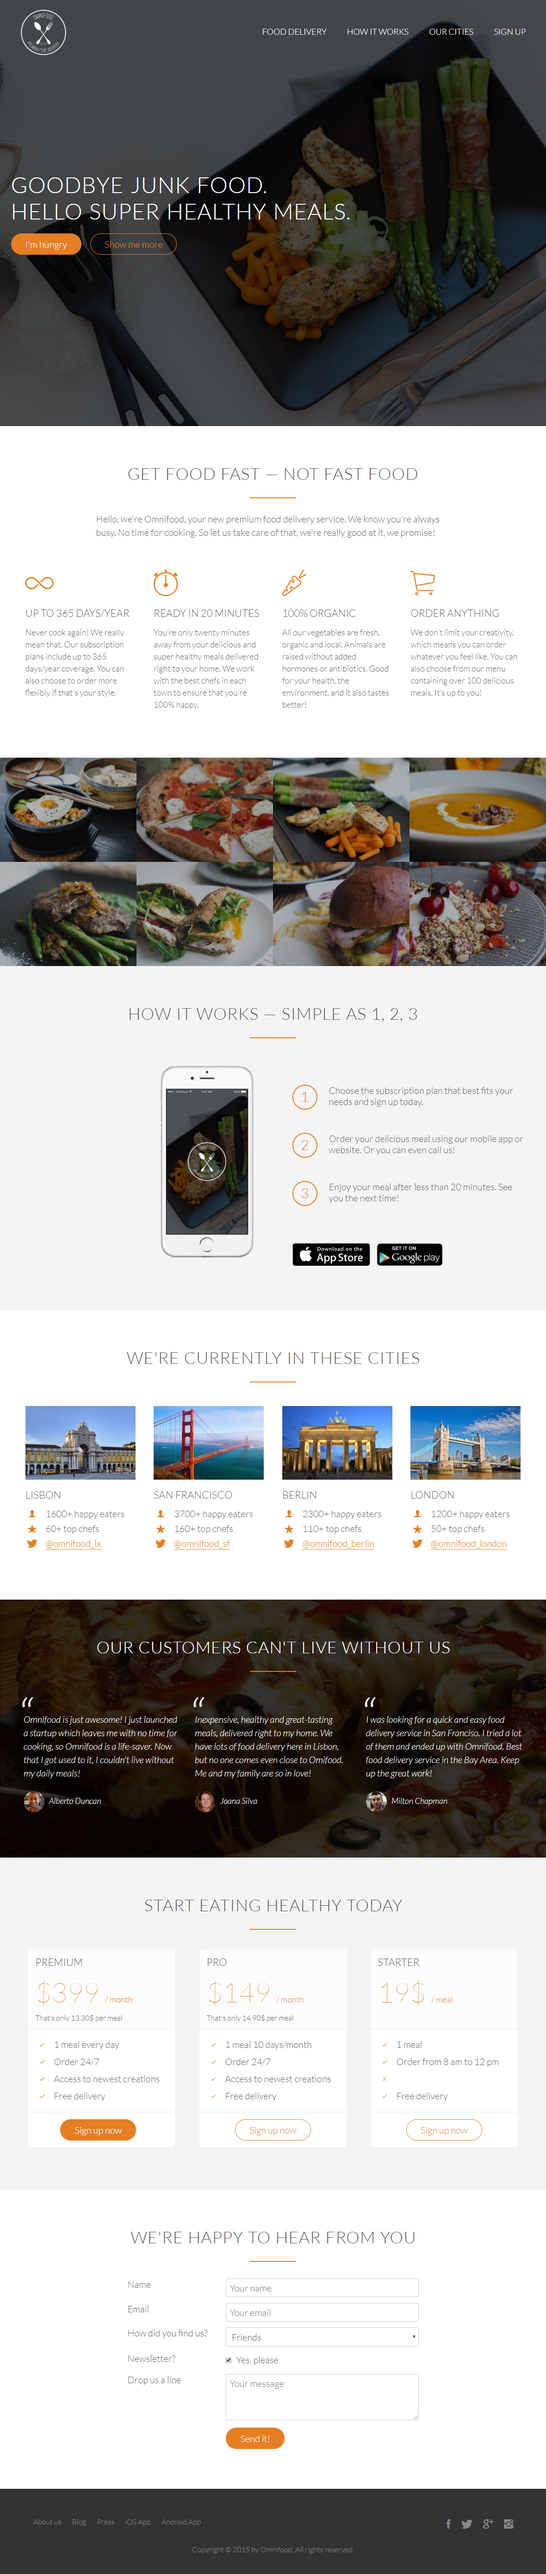
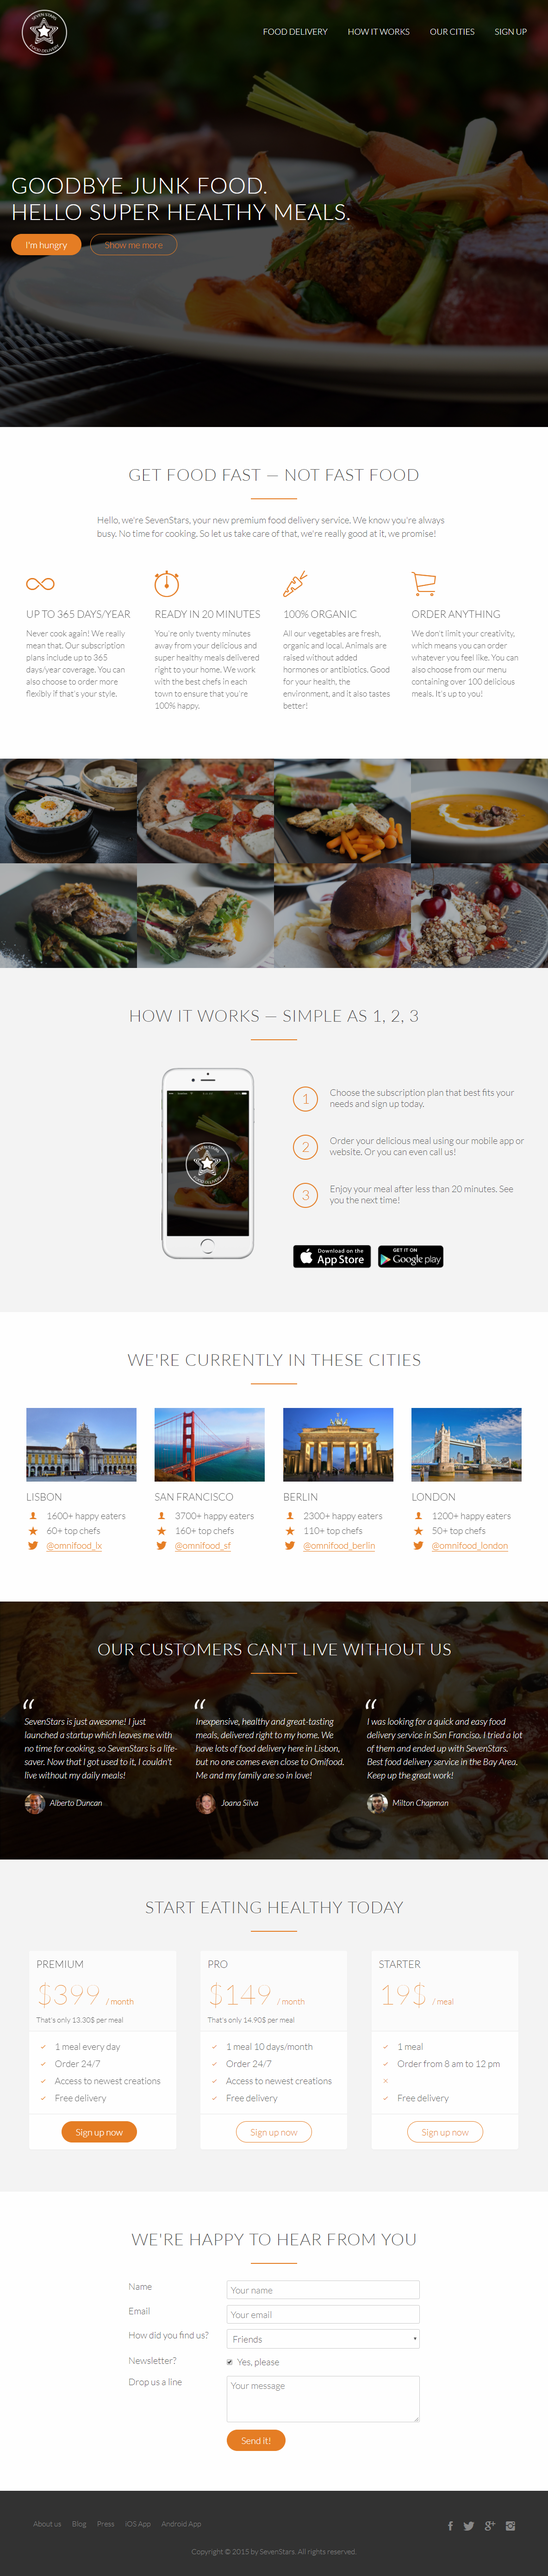
readme

diff --git a/README.md b/README.md
@@ -1,4 +1,4 @@
-# Omnifood
+# SevenStars
 Responsive Websites with HTML5 and CSS3 without Bootstrap
 
 
@@ -17,7 +17,7 @@ Responsive Websites with HTML5 and CSS3 without Bootstrap
 
 ## How to run application on the local computer :
 
-Direct to Omnifood folder then
+Direct to SevenStars folder then
 
 > open  index.html
 
